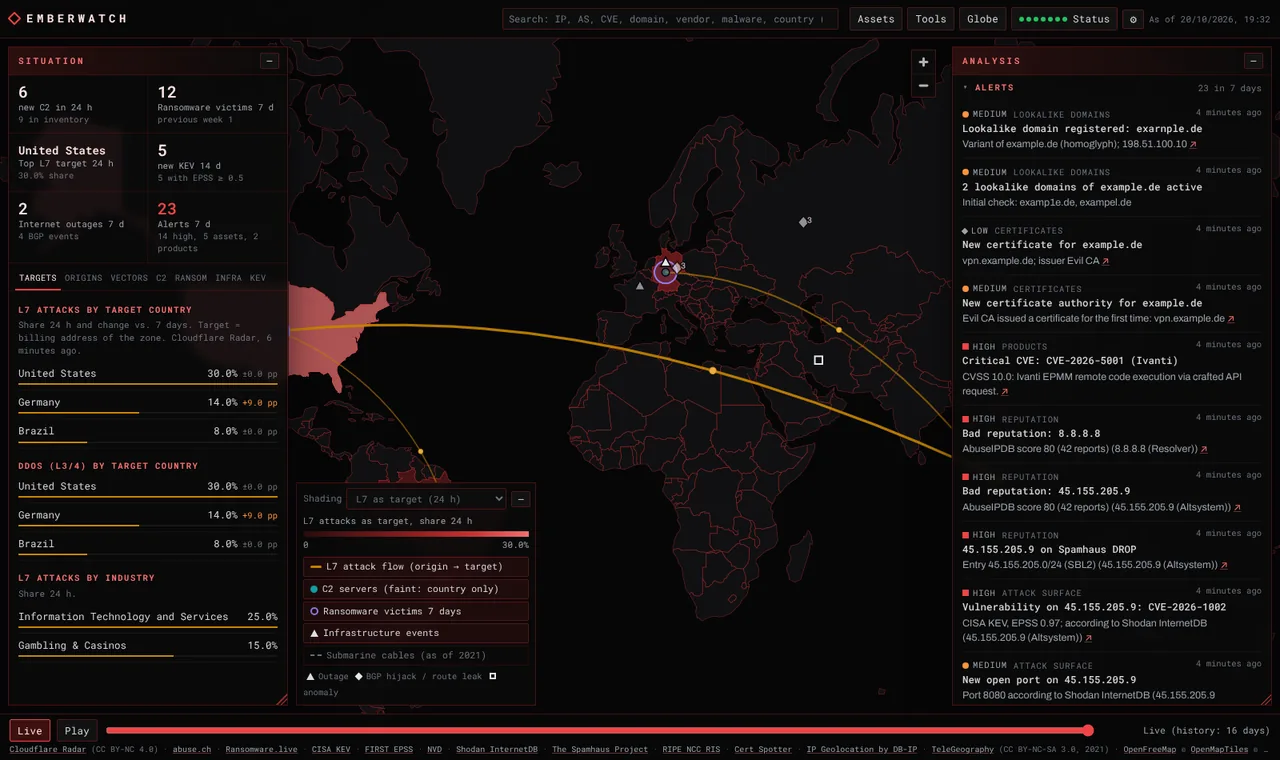
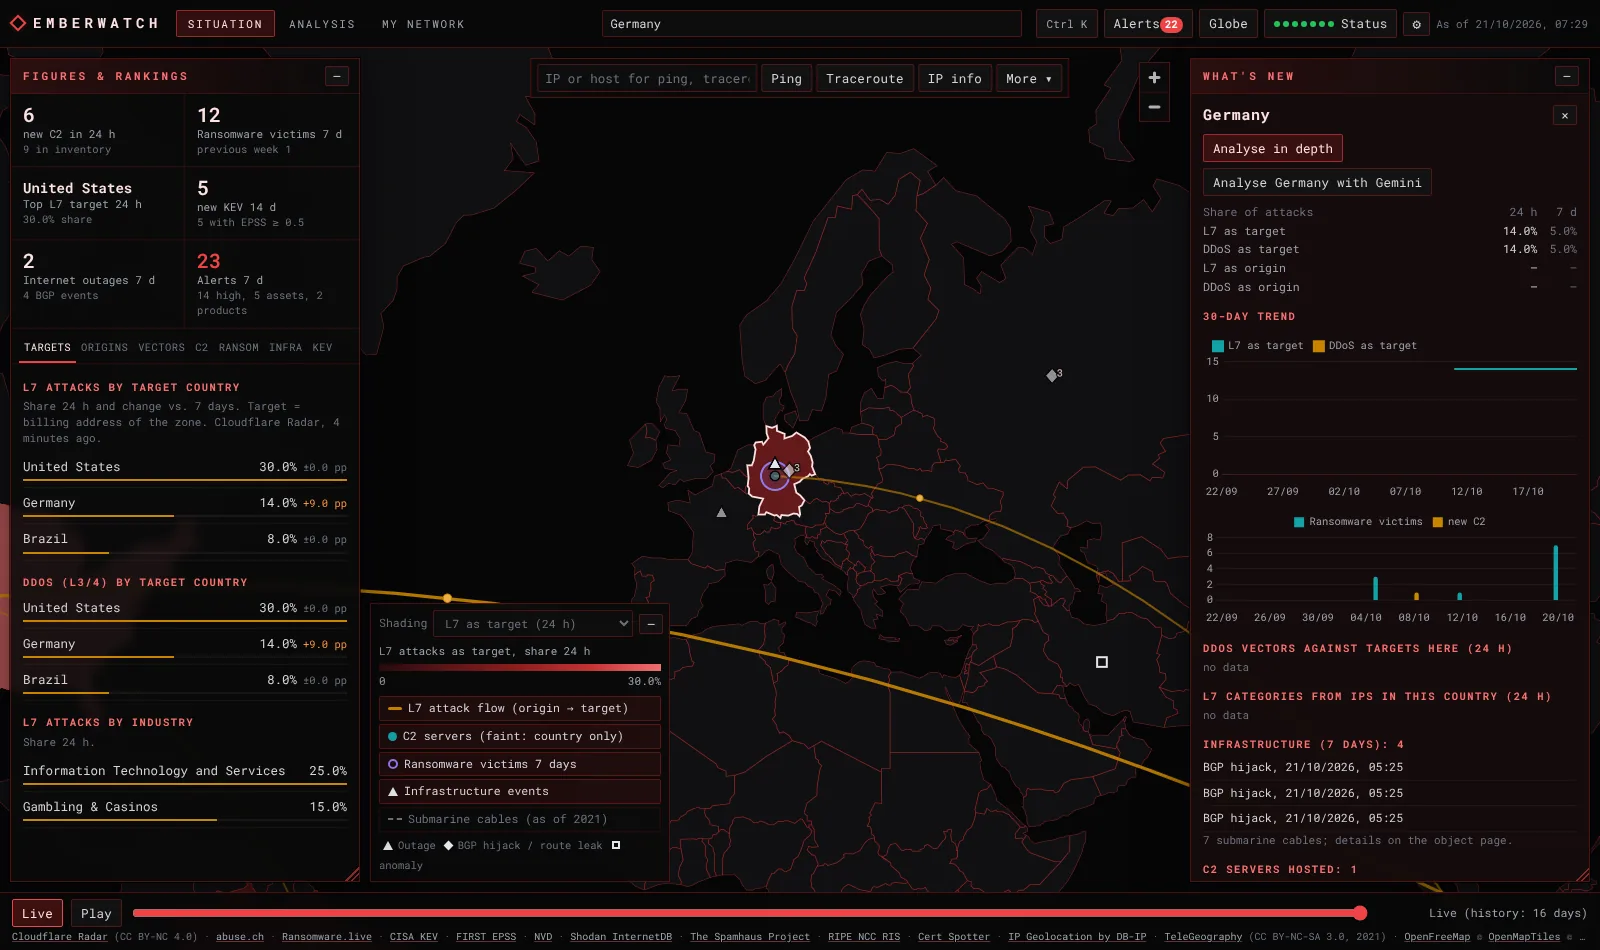
3.1.0 docs, settings and login fix
- README (EN/DE): three areas, tool box with flags, object pages, My IP with reporter
  and dyndns2 setup, new settings, data sources of the tools, privacy notes, limits
- CHANGELOG 3.1.0 (unreleased), version 3.1.0
- New settings in .env.example and both stacks: GREYNOISE_API_KEY, GLOBALPING_TOKEN,
  CYBERCHEF_URL
- Login page: texts module is public, test covers every module the login page imports
- Map note names what a "show on map" result displays; mobile layout of the tool bar
- New screenshots (synthetic demo data)

Claude-Session: https://claude.ai/code/session_01E7aK7U8mApYGQofGbz6dSh

diff --git a/frontend/styles.css b/frontend/styles.css
@@ -815,6 +815,13 @@ body.left-collapsed .maptools, body.right-collapsed .maptools, body.panel-left-f
 .tool-live .kv { margin-top: 6px; }
 .panel-tools .tool-out .result { border: 0; padding: 4px 0 0; margin: 0; background: none; }
 
+.map-note {
+  top: calc(var(--top-h) + var(--gap) + 48px); left: 50%; transform: translateX(-50%); z-index: 16; display: flex; gap: 10px; align-items: center;
+  background: var(--panel-solid); border: 1px solid var(--border-strong); padding: 4px 6px 4px 10px; font-size: 11.5px; max-width: 60vw;
+}
+.map-note span { overflow: hidden; text-overflow: ellipsis; white-space: nowrap; }
+body:not(.area-lage) .map-note { display: none; }
+
 /* --- command palette ---------------------------------------------------------------------------------------- */
 .palette-back { position: fixed; inset: 0; z-index: 9500; background: rgba(0, 0, 0, 0.55); display: flex; justify-content: center; align-items: flex-start; padding-top: 12vh; }
 .palette-back[hidden] { display: none; }
@@ -846,6 +853,7 @@ body.left-collapsed .maptools, body.right-collapsed .maptools, body.panel-left-f
   .maptools { left: var(--gap); right: var(--gap); top: auto; bottom: calc(var(--bottom-h) + var(--gap) + 92px); max-width: none; }
   .maptools input { flex-basis: 100%; }
   body:not(.right-collapsed) .maptools { display: none; }
+  .map-note { top: auto; bottom: calc(var(--bottom-h) + var(--gap) + 172px); left: var(--gap); right: var(--gap); transform: none; max-width: none; }
   .big-form { flex-direction: column; align-items: stretch; }
   .kv { grid-template-columns: minmax(0, 1fr); }
   .kv dt { margin-top: 4px; }

diff --git a/frontend/js/texts.js b/frontend/js/texts.js
@@ -55,6 +55,7 @@ export const TEXTS = {
     "mt.mail_label": "Mail-Header oder komplette .eml", "mt.mail_ph": "Header einfügen (in Outlook: Datei > Eigenschaften > Internetkopfzeilen)",
     "mt.load_file": ".eml laden", "mt.too_big": "Datei zu groß (max. 15 MB).", "mt.loss": "Verlust",
     "mt.progress": "{done} von {total} Messpunkten fertig", "mt.stopped": "Abgebrochen.",
+    "mt.on_map": "Auf der Karte: {what} ({n} Punkte)", "mt.result": "Ergebnis",
     // analysis area
     "an.title": "Analyse", "an.lead": "Ein Objekt eingeben und alles sehen, was Emberwatch dazu weiß, oder gezielt Werkzeuge ausführen.",
     "an.input_ph": "IP, Netz, AS, Domain, URL, E-Mail, Hash, CVE oder Mail-Header …", "an.analyse": "Analysieren",
@@ -201,6 +202,7 @@ export const TEXTS = {
     "mt.mail_label": "Mail header or complete .eml", "mt.mail_ph": "Paste the header (Outlook: File > Properties > Internet headers)",
     "mt.load_file": "Load .eml", "mt.too_big": "File too large (max. 15 MB).", "mt.loss": "Loss",
     "mt.progress": "{done} of {total} probes done", "mt.stopped": "Stopped.",
+    "mt.on_map": "On the map: {what} ({n} points)", "mt.result": "result",
     "an.title": "Analysis", "an.lead": "Enter an object and see everything Emberwatch knows about it, or run specific tools.",
     "an.input_ph": "IP, network, AS, domain, URL, e-mail, hash, CVE or mail header …", "an.analyse": "Analyse",
     "an.detected": "Detected:", "an.open_object": "Open object page", "an.to_tools": "In the tool box", "an.text_as": "Open as:",

diff --git a/frontend/js/assets.js b/frontend/js/assets.js
@@ -182,7 +182,7 @@ export class Assets {
     const geo = rows.filter((r) => r.lat !== null && r.lat !== undefined);
     if (geo.length) {
       out.push(el("div", { class: "btnrow" }, el("button", { type: "button", onclick: () => {
-        this.onMap({ points: geo.map((r) => ({ lon: r.lon, lat: r.lat, kind: "target", label: r.ip, ip: r.ip })) });
+        this.onMap({ points: geo.map((r) => ({ lon: r.lon, lat: r.lat, kind: "target", label: r.ip, ip: r.ip })) }, label(d));
       } }, t("common.show_map"))));
     }
     out.push(table([t("as.d.ip"), t("as.d.ports"), t("as.d.vulns"), t("as.d.as")], rows.map((r) => el("tr", {},
@@ -424,7 +424,7 @@ export class Assets {
       const geo = r.hits.filter((h) => h.geo && h.geo.lat !== undefined && h.geo.lat !== null);
       if (geo.length) {
         parts.push(el("div", { class: "btnrow" }, el("button", { type: "button", onclick: () => {
-          this.onMap({ points: geo.map((h) => ({ lon: h.geo.lon, lat: h.geo.lat, kind: "target", label: h.indicator, ip: h.indicator, sev: h.severity })) });
+          this.onMap({ points: geo.map((h) => ({ lon: h.geo.lon, lat: h.geo.lat, kind: "target", label: h.indicator, ip: h.indicator, sev: h.severity })) }, t("nz.nav.logs"));
         } }, t("common.show_map"))));
       }
       parts.push(table(["", t("lg.indicator"), t("lg.count"), t("lg.match"), t("lg.line")], r.hits.map((h) => el("tr", {},

diff --git a/frontend/js/result.js b/frontend/js/result.js
@@ -85,7 +85,7 @@ export function renderResult(r, opts = {}) {
   const verdict = el("p", { class: "verdict" }, sevTag(r.verdict?.sev || "ok"), r.verdict?.text || "");
   const actions = el("div", { class: "btnrow res-actions" },
     r.object ? objLink(r.object.type, r.object.value, t("res.open_object"), "btn") : null,
-    r.map && opts.onMap ? el("button", { type: "button", onclick: () => opts.onMap(r.map) }, t("common.show_map")) : null,
+    r.map && opts.onMap ? el("button", { type: "button", onclick: () => opts.onMap(r.map, `${r.title}: ${r.target}`) }, t("common.show_map")) : null,
     el("button", { type: "button", onclick: () => download(`emberwatch-${slug(r.tool)}-${slug(r.target)}.json`, JSON.stringify(r, null, 2), "application/json") }, t("res.json")),
     ...(opts.actions || []));
   const raw = r.raw ? el("details", { class: "res-raw" }, el("summary", {}, t("res.raw"))) : null;
@@ -135,7 +135,7 @@ function collectMaps(r, opts) {
       paths.push(...(s.result.map.paths || []));
     }
   }
-  return points.length ? [el("button", { type: "button", onclick: () => opts.onMap({ points, paths }) }, t("common.show_map"))] : [];
+  return points.length ? [el("button", { type: "button", onclick: () => opts.onMap({ points, paths }, `${r.title}: ${r.target}`) }, t("common.show_map"))] : [];
 }
 
 export function destroyIn(node) {

diff --git a/frontend/js/analyse.js b/frontend/js/analyse.js
@@ -165,7 +165,7 @@ export class Analyse {
       ...groups.map(([g, list]) => el("div", { class: "act-group" }, el("span", { class: "act-label" }, t(`tb.group.${g}`)),
         ...list.map((x) => el("button", { type: "button", disabled: !reg.enabled || !x.available, title: `${x.desc}${x.available ? "" : ` (${x.reason})`}`,
           class: `lvl-btn lvl-${x.level}`, onclick: () => this.stack.tool(x.id, toolTarget(o)) }, x.name)))),
-      page.map ? el("button", { type: "button", onclick: () => this.onMap(page.map) }, t("common.show_map")) : null,
+      page.map ? el("button", { type: "button", onclick: () => this.onMap(page.map, `${t(`obj.type.${page.type}`)}: ${page.title}`) }, t("common.show_map")) : null,
       tools.length ? el("a", { class: "btn plain", href: href(routes.tools(toolTarget(o))) }, t("an.more_options")) : null);
     const reasons = page.risk.reasons?.length ? el("section", { class: "res-sec" }, el("h4", {}, t("an.assessment")), findingsNode(page.risk.reasons)) : null;
     const sections = (page.sections || []).map(sectionNode);

diff --git a/frontend/js/app.js b/frontend/js/app.js
@@ -70,10 +70,16 @@ async function main() {
   const statusPanel = document.getElementById("status-panel");
   const settingsPanel = document.getElementById("settings-panel");
 
-  /** Shows a tool/object result on the map: switches to the situation view first. */
-  function showOnMap(m) {
+  /** Shows a tool/object result on the map: switches to the situation view first and names what is shown. */
+  const note = document.getElementById("map-note");
+  document.getElementById("map-note-clear").addEventListener("click", () => { map.clearTool(); note.hidden = true; });
+  function showOnMap(m, label = "") {
     if (state.area !== "lage") go("lage");
-    requestAnimationFrame(() => requestAnimationFrame(() => map.showResult(m)));
+    requestAnimationFrame(() => requestAnimationFrame(() => {
+      const n = map.showResult(m);
+      document.getElementById("map-note-txt").textContent = t("mt.on_map", { what: label || t("mt.result"), n: num(n) });
+      note.hidden = false;
+    }));
   }
 
   /** Runs a map tool (situation view) with a target. */

diff --git a/frontend/index.html b/frontend/index.html
@@ -133,6 +133,8 @@
     </form>
   </div>
 
+  <div class="hud map-note" id="map-note" hidden><span id="map-note-txt"></span><button type="button" id="map-note-clear" class="small" data-i18n="mt.clear"></button></div>
+
   <!-- tool result window (situation view) -->
   <section class="panel panel-tools" id="panel-tools" hidden data-i18n-aria="panel.tools">
     <div class="panel-head">

diff --git a/backend/tests/test_workspaces.py b/backend/tests/test_workspaces.py
@@ -644,3 +644,26 @@ def test_myip_auto_asn_and_jobs(m, monkeypatch):
     assert page["mine"]["myip"] == "server" and "ob.f.myip" in [f["key"] for f in page["risk"]["reasons"]]
     from app.objects import object_context
     assert "5.9.1.2" in json.dumps(object_context(page)) and "ob.f.myip" not in json.dumps(object_context(page))
+
+
+def test_login_page_assets_public(tmp_path, monkeypatch):
+    """With a login, the login page and every module it imports load without a session; the app itself does not."""
+    m = v3.load_app(tmp_path, monkeypatch, AUTH_MODE="password", AUTH_PASSWORD="a-long-test-password-123")
+    from fastapi.testclient import TestClient
+    js = ROOT / "frontend" / "js"
+    todo, seen = ["login.js"], set()
+    while todo:
+        f = todo.pop()
+        if f in seen:
+            continue
+        seen.add(f)
+        todo += re.findall(r'from "\./([\w.-]+\.js)"', (js / f).read_text())
+    assert {"login.js", "i18n.js", "texts.js"} <= seen
+    with TestClient(m.app) as tc:
+        assert tc.get("/login").status_code == 200
+        for f in sorted(seen):
+            assert tc.get(f"/js/{f}").status_code == 200, f
+        assert tc.get("/js/app.js").status_code == 401
+        assert tc.get("/api/myip").status_code == 401
+        assert tc.post("/api/myip/report").json()["status"] == "badauth"  # public path, token checked by the endpoint
+        assert tc.get("/nic/update").text == "badauth"

diff --git a/backend/app/main.py b/backend/app/main.py
@@ -377,7 +377,7 @@ CSP = (
     "object-src 'none'; base-uri 'none'; frame-ancestors 'none'; form-action 'self'"
 )
 PUBLIC_PATHS = {"/healthz", "/login", "/login.html", "/api/auth/login", "/api/auth/status", "/favicon.svg",
-                "/styles.css", "/js/login.js", "/js/i18n.js", "/js/boot.js",
+                "/styles.css", "/js/login.js", "/js/i18n.js", "/js/texts.js", "/js/boot.js",
                 "/api/myip/report", "/nic/update"}  # the last two authenticate with their own token
 PUBLIC_PREFIXES = ("/vendor/fonts/",)
 

diff --git a/backend/app/__init__.py b/backend/app/__init__.py
@@ -1,4 +1,4 @@
 """Emberwatch – self-hosted cyber threat intelligence map."""
 
-__version__ = "3.0.1"
+__version__ = "3.1.0"
 REPO_URL = "https://github.com/SaturdayNetLab/emberwatch"
